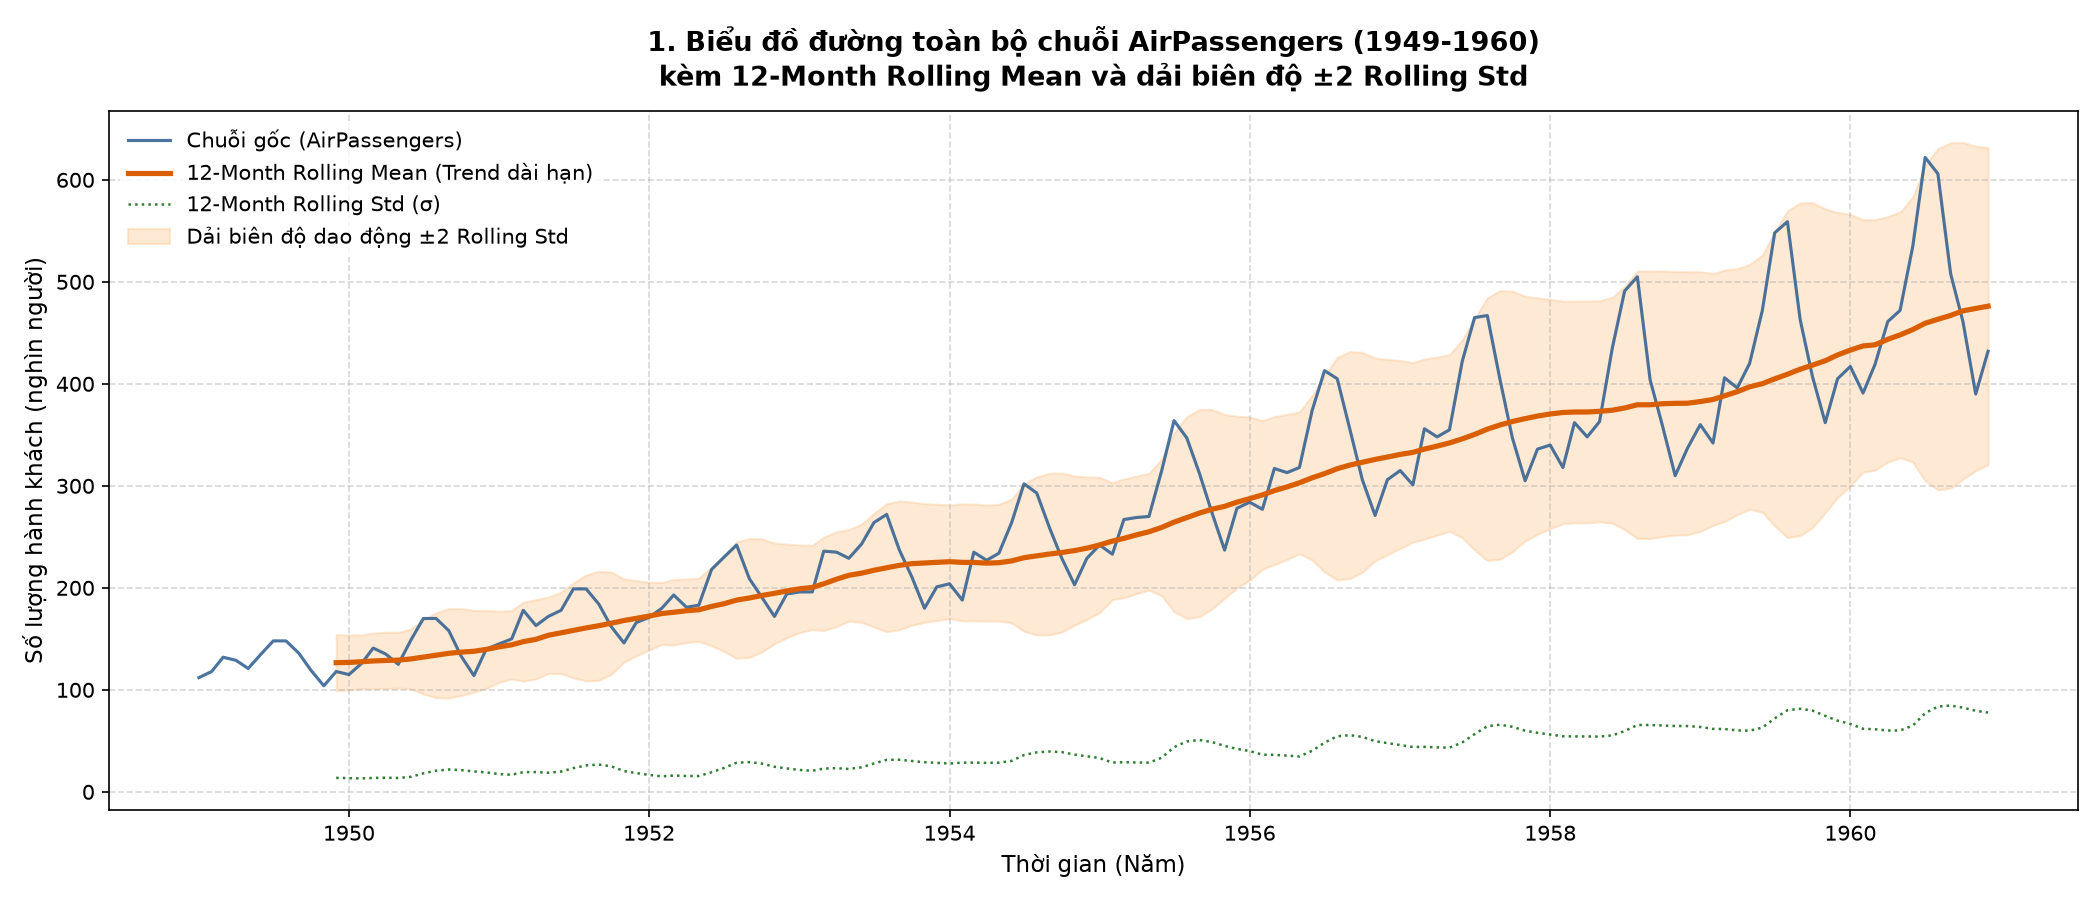
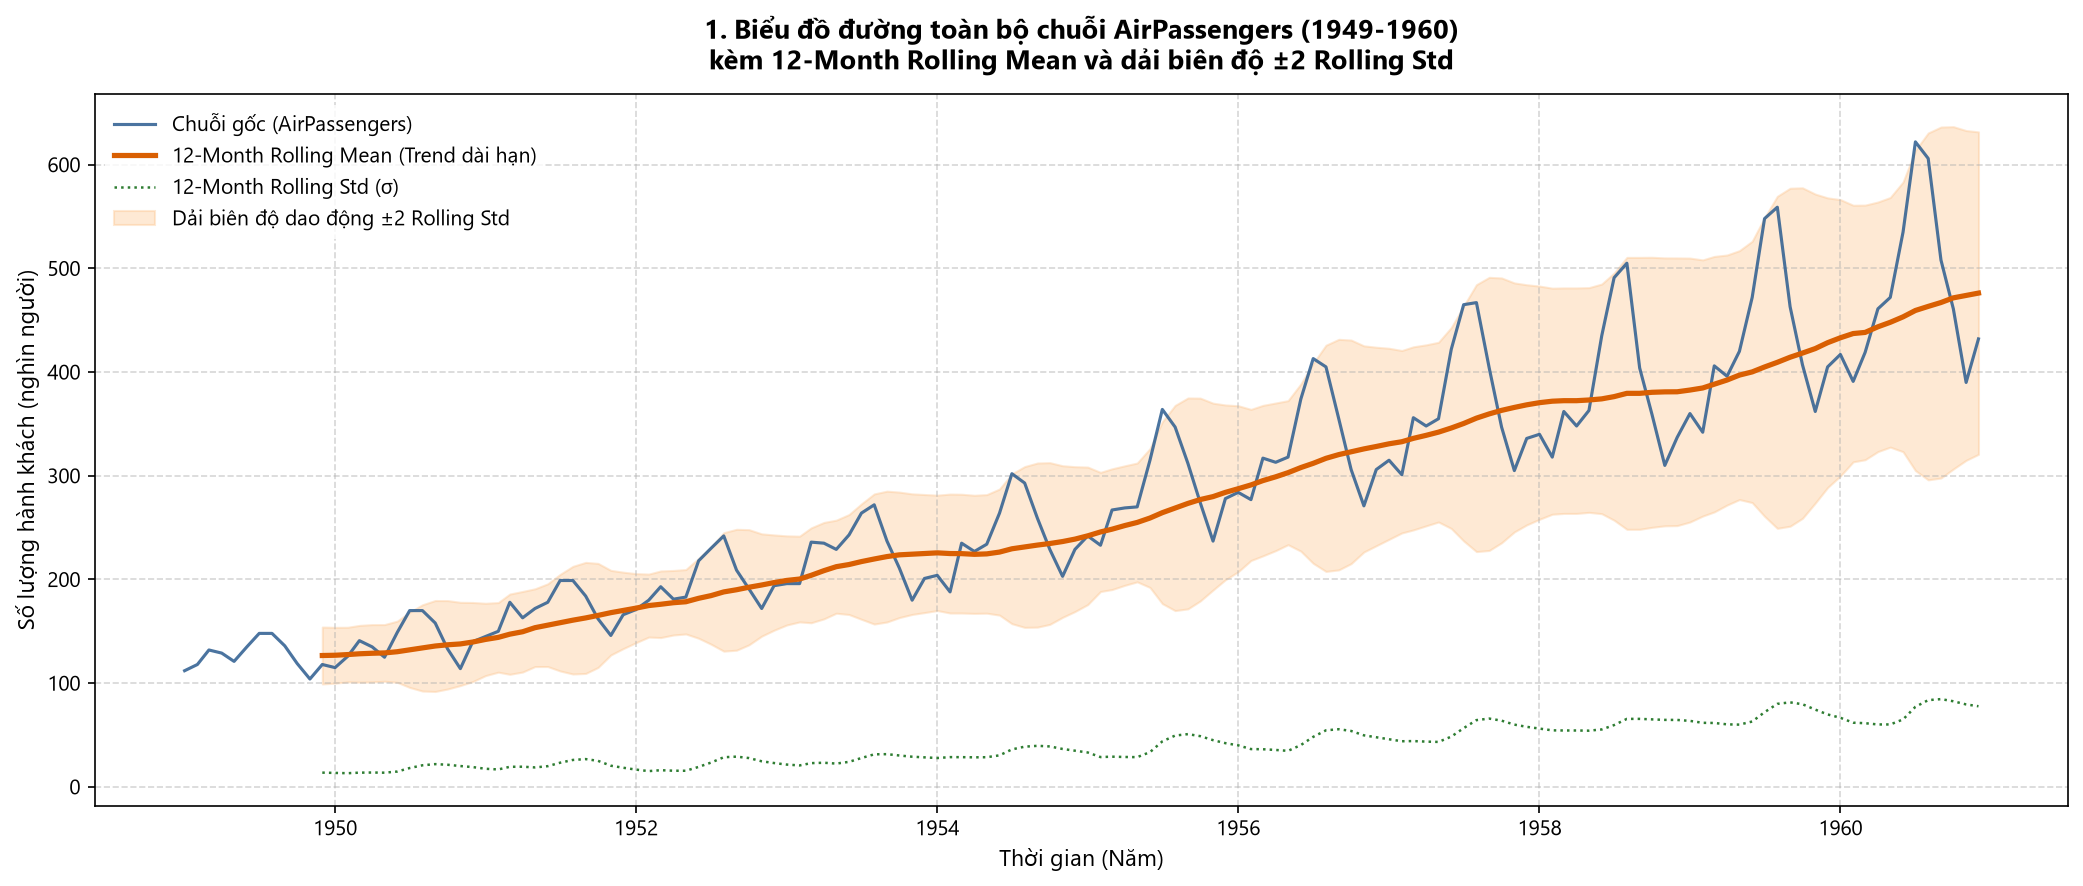
feat(lab2): chuan hoa phong chu Segoe UI va tieng Viet co dau bai tap 5

diff --git a/LAB2/bai_tap_5/bai_tap_5.py b/LAB2/bai_tap_5/bai_tap_5.py
@@ -42,16 +42,23 @@ from typing import Tuple, Dict, Any, List
 
 import numpy as np
 import pandas as pd
+import matplotlib as mpl
 import matplotlib.pyplot as plt
 import seaborn as sns
 
 # Thiết lập bảng mã UTF-8 cho console Windows nhằm ngăn ngừa UnicodeEncodeError
 if sys.platform == "win32":
     try:
+        os.system("chcp 65001 >nul 2>&1")
         sys.stdout.reconfigure(encoding="utf-8")
         sys.stderr.reconfigure(encoding="utf-8")
     except Exception:
         pass
+
+# Cấu hình font chữ hỗ trợ tiếng Việt đầy đủ và đẹp trên Windows / Linux / macOS
+mpl.rcParams["font.family"] = "sans-serif"
+mpl.rcParams["font.sans-serif"] = ["Segoe UI", "Arial", "Tahoma", "DejaVu Sans"]
+mpl.rcParams["axes.unicode_minus"] = False
 
 
 def step1_load_data(data_path: Path) -> pd.Series:
@@ -217,8 +224,10 @@ def step3_visualize(series: pd.Series, analysis_results: Dict[str, Any], show_pl
     plt.tight_layout()
     if figures_dir is not None:
         figures_dir.mkdir(parents=True, exist_ok=True)
-        fig1.savefig(figures_dir / "bai5_1_rolling_statistics.png", dpi=150)
-        print(f" -> Đã lưu biểu đồ 1 (Rolling Statistics): {figures_dir / 'bai5_1_rolling_statistics.png'}")
+        out1 = figures_dir / "bai5_1_rolling_statistics.png"
+        with open(out1, "wb") as f:
+            fig1.savefig(f, format="png", dpi=150, bbox_inches="tight")
+        print(f" -> Đã lưu biểu đồ 1 (Rolling Statistics): {out1}")
     if show_plot:
         plt.show()
     else:
@@ -246,8 +255,10 @@ def step3_visualize(series: pd.Series, analysis_results: Dict[str, Any], show_pl
 
     plt.tight_layout()
     if figures_dir is not None:
-        fig_seasonal.savefig(figures_dir / "bai5_2_seasonal_plot.png", dpi=150)
-        print(f" -> Đã lưu biểu đồ 2 (Seasonal Plot): {figures_dir / 'bai5_2_seasonal_plot.png'}")
+        out2 = figures_dir / "bai5_2_seasonal_plot.png"
+        with open(out2, "wb") as f:
+            fig_seasonal.savefig(f, format="png", dpi=150, bbox_inches="tight")
+        print(f" -> Đã lưu biểu đồ 2 (Seasonal Plot): {out2}")
     if show_plot:
         plt.show()
     else:
@@ -274,8 +285,10 @@ def step3_visualize(series: pd.Series, analysis_results: Dict[str, Any], show_pl
 
     plt.tight_layout()
     if figures_dir is not None:
-        fig2.savefig(figures_dir / "bai5_3_seasonality_heatmap.png", dpi=150)
-        print(f" -> Đã lưu biểu đồ 3 (Seasonality Heatmap): {figures_dir / 'bai5_3_seasonality_heatmap.png'}")
+        out3 = figures_dir / "bai5_3_seasonality_heatmap.png"
+        with open(out3, "wb") as f:
+            fig2.savefig(f, format="png", dpi=150, bbox_inches="tight")
+        print(f" -> Đã lưu biểu đồ 3 (Seasonality Heatmap): {out3}")
     if show_plot:
         plt.show()
     else:
@@ -286,16 +299,16 @@ def step3_visualize(series: pd.Series, analysis_results: Dict[str, Any], show_pl
 
 
 def _month_name(m: int) -> str:
-    """Trả về tên tháng rút gọn tiếng Việt (không sinh phụ thuộc locale)."""
-    names = {1: "Thang 1", 2: "Thang 2", 3: "Thang 3", 4: "Thang 4", 5: "Thang 5", 6: "Thang 6",
-             7: "Thang 7", 8: "Thang 8", 9: "Thang 9", 10: "Thang 10", 11: "Thang 11", 12: "Thang 12"}
-    return names.get(int(m), f"Thang {int(m)}")
+    """Trả về tên tháng tiếng Việt."""
+    names = {1: "Tháng 1", 2: "Tháng 2", 3: "Tháng 3", 4: "Tháng 4", 5: "Tháng 5", 6: "Tháng 6",
+             7: "Tháng 7", 8: "Tháng 8", 9: "Tháng 9", 10: "Tháng 10", 11: "Tháng 11", 12: "Tháng 12"}
+    return names.get(int(m), f"Tháng {int(m)}")
 
 
 def step4_conclude_and_report(analysis_results: Dict[str, Any], output_path: Path) -> str:
     """
     Bước 4: Tổng hợp nhận định chuyên sâu, xuất báo cáo nghiệm thu Bài tập 5
-            và trả lời đầy đủ 3 câu nghiệm thu + câu lý thuyết 9 & 12.
+            và trả lời đầy đủ 5 câu nghiệm thu đề bài + câu lý thuyết 9 & 12.
 
     Cấu trúc báo cáo 5 phần:
         1. Phân tích xu hướng & dải biến thiên (±2σ)
@@ -320,84 +333,84 @@ def step4_conclude_and_report(analysis_results: Dict[str, Any], output_path: Pat
     yoy_line = "; ".join(f"{int(ts.year)}: {val:+.1f}%" for ts, val in yoy.dropna().items())
 
     report_text = f"""=================================================================================
-BAO CAO PHAN TICH KET QUA BAI TAP 5 (TRUC QUAN HOA CHUYEN SAU CHUOI THOI GIAN)
-Thanh vien thuc hien: Bui Tran Ngoc Khai (CV06) - Mon QLCTG (UTH), Nhom 7
-Du lieu: AirPassengers.csv | 144 quan sat thang | 1949-01 -> 1960-12
+BÁO CÁO PHÂN TÍCH KẾT QUẢ BÀI TẬP 5 (TRỰC QUAN HÓA CHUYÊN SÂU CHUỖI THỜI GIAN)
+Thành viên thực hiện: Bùi Trần Ngọc Khải (CV06) - Môn QLCTG (UTH), Nhóm 7
+Dữ liệu: AirPassengers.csv | 144 quan sát tháng | 1949-01 -> 1960-12
 =================================================================================
-1. PHAN TICH XU HUONG VA DAI BIEN THIEN (ROLLING STATISTICS, window=12):
-   - Duong trung binh truot 12 thang (Rolling Mean) lam min hoan toan cac dao dong
-     song ngan, cho thay ro rang xu huong tang truong doc manh qua tung nam.
-   - Tong luong hanh khach hang nam: {int(annual_sum.iloc[0])} (1949) -> {int(annual_sum.iloc[-1])} (1960),
-     tuong duong gap {gfac:.2f} lan (+{gpct:.1f}%). Tang truong YoY: {yoy_line}.
-   - Dai bien do dao dong ±2 Rolling Std mo rong ro ret theo thoi gian:
-     + Do lech chuan noi nam 1949: {std_init:.2f}
-     + Do lech chuan noi nam 1960: {std_end:.2f} (Gap {ratio:.2f} lan so voi 1949).
-     + Bien do mua vu noi nam (max-min): {int(amp.iloc[0])} (1949) -> {int(amp.iloc[-1])} (1960),
-       gap {amp_growth:.2f} lan - tang ty le thuan voi muc do lon cua chuoi.
-   - Ty le diem nam trong dai ±2 Std: {coverage:.1f}% (~95%, phu hop ky vong thong ke).
-   - Ket luan phuong sai: Chuoi vi pham gia dinh phuong sai dong nhat
-     (Heteroskedasticity). Mo hinh dang nhan (Multiplicative) hoac phep bien doi
-     Box-Cox / Log-transform la toi can thiet khi xay dung mo hinh du bao.
+1. PHÂN TÍCH XU HƯỚNG VÀ DẢI BIẾN THIÊN (ROLLING STATISTICS, window=12):
+   - Đường trung bình trượt 12 tháng (Rolling Mean) làm mịn hoàn toàn các dao động
+     mùa vụ nội năm ngắn hạn, thể hiện rõ xu hướng tăng trưởng dốc và liên tục qua từng năm.
+   - Tổng lượng hành khách hàng năm: {int(annual_sum.iloc[0])} (1949) -> {int(annual_sum.iloc[-1])} (1960),
+     tương đương tăng gấp {gfac:.2f} lần (+{gpct:.1f}%). Tăng trưởng YoY: {yoy_line}.
+   - Dải biên độ dao động ±2 Rolling Std mở rộng rõ rệt theo thời gian:
+     + Độ lệch chuẩn nội năm 1949: {std_init:.2f}
+     + Độ lệch chuẩn nội năm 1960: {std_end:.2f} (Gấp {ratio:.2f} lần so với năm 1949).
+     + Biên độ mùa vụ nội năm (Max - Min): {int(amp.iloc[0])} (1949) -> {int(amp.iloc[-1])} (1960),
+       gấp {amp_growth:.2f} lần - biên độ tăng tỷ lệ thuận với độ lớn của chuỗi thời gian.
+   - Tỷ lệ số điểm nằm trọn trong dải ±2 Std: {coverage:.1f}% (~95%, phù hợp quy tắc thực nghiệm thống kê).
+   - Kết luận phương sai: Chuỗi vi phạm giả định phương sai đồng nhất
+     (Heteroskedasticity). Mô hình dạng nhân (Multiplicative) hoặc phép biến đổi
+     Box-Cox / Log-transform là tối cần thiết khi xây dựng mô hình dự báo.
 
-2. QUY LUAT MUA VU THEO THANG (MONTHLY SEASONAL PLOT):
-   - Bieu do Seasonal Plot cho thay cac duong cong qua tung nam co hinh dang
-     (pha dao dong) dong dang gan nhu tuyet doi, chung minh tinh mua vu mang
-     quy luat tu nhien rat cao va on dinh.
-   - Dinh diem hanh khach (Peak): Thang {peak_m} (TB {monthly_avg.loc[peak_m]:.1f} nghin nguoi;
-     ky luc {int(analysis_results['series'].max())} tai {analysis_results['series'].idxmax():%Y-%m}).
-   - Day thap nhat (Trough): Thang {trough_m} (TB {monthly_avg.loc[trough_m]:.1f} nghin nguoi;
-     thap nhat lich su {int(analysis_results['series'].min())} tai {analysis_results['series'].idxmin():%Y-%m}).
-   - Moi nam duong cong mua vu tinh tien deu len phia tren ma khong lam dao lon
-     cau truc song -> xu huong dai han + mua vu 12 thang song song ton tai.
+2. QUY LUẬT MÙA VỤ THEO THÁNG (MONTHLY SEASONAL PLOT):
+   - Biểu đồ Seasonal Plot cho thấy các đường cong qua từng năm có hình dạng
+     (pha dao động) đồng dạng gần như tuyệt đối, chứng minh tính mùa vụ mang
+     quy luật tự nhiên rất cao và ổn định.
+   - Đỉnh điểm hành khách (Peak): Tháng {peak_m} (TB {monthly_avg.loc[peak_m]:.1f} nghìn người;
+     kỷ lục {int(analysis_results['series'].max())} nghìn người tại {analysis_results['series'].idxmax():%Y-%m}).
+   - Đáy thấp nhất (Trough): Tháng {trough_m} (TB {monthly_avg.loc[trough_m]:.1f} nghìn người;
+     thấp nhất lịch sử {int(analysis_results['series'].min())} nghìn người tại {analysis_results['series'].idxmin():%Y-%m}).
+   - Mỗi năm đường cong mùa vụ tịnh tiến đều lên phía trên mà không làm đảo lộn
+     cấu trúc sóng -> Xu hướng dài hạn và mùa vụ chu kỳ 12 tháng cùng song song tồn tại.
 
-3. DANH GIA MAT DO QUA HEATMAP (YEAR x MONTH):
-   - Ban do nhiet the hien ro su chuyen mau tu tong nhat (nam 1949, ~100-150)
-     sang tong dam (nam 1960, vuot nguong 500-622).
-   - "Dai mau nong" tap trung lien tuc vao cot Thang 7 va Thang 8 qua moi nam
-     (TB T7={monthly_avg.loc[7]:.1f}, TB T8={monthly_avg.loc[8]:.1f}).
-   - Cot Thang 11 luon la "o lanh" xuyen suot 12 nam (TB {monthly_avg.loc[11]:.1f}).
-   - Su ket hop truc quan giua Heatmap va Rolling Statistics cung cap buc tranh
-     toan dien ve ca 2 chieu: thoi diem trong nam (seasonality) va xu huong lien nam (trend).
+3. ĐÁNH GIÁ MẬT ĐỘ QUA BẢN ĐỒ NHIỆT (SEASONALITY HEATMAP: NĂM x THÁNG):
+   - Bản đồ nhiệt thể hiện rõ sự chuyển dịch tông màu từ nhạt (giai đoạn 1949: ~100-150 nghìn khách)
+     sang tông đậm (giai đoạn 1960: vượt ngưỡng 500-622 nghìn khách).
+   - "Dải màu nóng" (mật độ cao nhất) tập trung liên tục vào cột Tháng 7 và Tháng 8 qua mọi năm
+     (TB T7 = {monthly_avg.loc[7]:.1f}, TB T8 = {monthly_avg.loc[8]:.1f} nghìn người).
+   - Cột Tháng 11 luôn là "vùng lạnh nhất" xuyên suốt 12 năm quan sát (TB {monthly_avg.loc[11]:.1f} nghìn người).
+   - Sự kết hợp trực quan giữa Heatmap và Rolling Statistics cung cấp góc nhìn
+     toàn diện theo cả 2 chiều: thời điểm trong năm (seasonality) và xu hướng liên năm (trend).
 
-4. TRA LOI CAU HOI NGHIEM THU BAI 5 (5 CAU CHUAN DE BAI):
-   Cau 1 - Line chart toan bo chuoi cho thay gi?
-     -> Chuoi tang truong lien tuc tu 1949 den 1960 (tong nam gap {gfac:.2f} lan),
-        dao dong hinh quat mo rong dan, co 12 dinh song mua vu lap lai deu dan.
-   Cau 2 - Rolling Mean (window=12) va Rolling Std co vai tro gi?
-     -> Rolling Mean lam min chu ky 12 thang, lo ro trend dai han; Rolling Std
-        va dai ±2 Std kiem tra tinh thuan nhat phuong sai. Dai mo rong dan
-        (Std gap {ratio:.2f} lan) chung minh heteroskedasticity.
-   Cau 3 - Seasonal Plot theo thang rut ra dieu gi?
-     -> 12 duong cong dong dang, tinh tien deu len tren; dinh T{peak_m}, day T{trough_m}
-        on dinh qua moi nam -> mua vu chu ky 12 manh va on dinh.
-   Cau 4 - Heatmap Seasonality (Month x Year) phat hien gi?
-     -> Ma tran {len(analysis_results['years'])}x12 lam noi bat "vung nong" T7-T8 va "vung lanh" T11,
-        dong thoi cho thay gradient tang dan theo truc nam - bang chung truc quan
-        cho ca trend va seasonality.
-   Cau 5 - Ket luan: xu huong chung, mua vu noi bat, bat thuong?
-     -> Xu huong: tang manh, khong co diem gay cau truc lon. Mua vu: chu ky 12 thang
-        cuc ky ro, dinh he (T7) - day cuoi thu (T11). Bat thuong: khong co outlier
-        cuc doan nao vuot dai ±2 Std mot cach he thong ({coverage:.1f}% nam trong dai).
+4. TRẢ LỜI CÂU HỎI NGHIỆM THU BÀI 5 (5 CÂU CHUẨN ĐỀ BÀI):
+   Câu 1 - Line chart toàn bộ chuỗi cho thấy gì?
+     -> Chuỗi tăng trưởng liên tục từ 1949 đến 1960 (tổng năm tăng gấp {gfac:.2f} lần),
+        dao động hình cánh quạt mở rộng dần, có 12 đỉnh sóng mùa vụ lặp lại đều đặn mỗi năm.
+   Câu 2 - Rolling Mean (window=12) và Rolling Std có vai trò gì?
+     -> Rolling Mean làm mịn chu kỳ 12 tháng để làm nổi bật Trend dài hạn; Rolling Std
+        và dải ±2 Std kiểm tra tính thuần nhất phương sai. Dải mở rộng dần
+        (Std tăng gấp {ratio:.2f} lần) chứng minh hiện tượng phương sai thay đổi (Heteroskedasticity).
+   Câu 3 - Seasonal Plot theo tháng rút ra điều gì?
+     -> 12 đường cong đồng dạng, tịnh tiến đều đặn lên trên qua từng năm; đỉnh Tháng {peak_m}
+        và đáy Tháng {trough_m} ổn định qua mọi năm -> Mùa vụ chu kỳ 12 tháng rất mạnh và bền vững.
+   Câu 4 - Heatmap Seasonality (Month x Year) phát hiện gì?
+     -> Ma trận {len(analysis_results['years'])}x12 làm nổi bật "vùng nóng" Tháng 7 - Tháng 8 và "vùng lạnh" Tháng 11,
+        đồng thời thể hiện gradient tăng dần theo trục năm – bằng chứng trực quan
+        cho cả Trend và Seasonality.
+   Câu 5 - Kết luận: xu hướng chung, mùa vụ nổi bật, bất thường?
+     -> Xu hướng: Tăng trưởng mạnh mẽ, không có điểm gãy cấu trúc lớn. Mùa vụ: Chu kỳ 12 tháng
+        cực kỳ rõ nét (đỉnh du lịch hè T7 - đáy cuối thu T11). Bất thường: Không xuất hiện ngoại lai
+        cực đoan nào vi phạm dải ±2 Std một cách hệ thống ({coverage:.1f}% nằm trong dải).
 
-5. TRA LOI CAU HOI LY THUYET 9 & 12 + DINH HUONG MO HINH HOA:
-   Cau 9 - Rolling mean duoc dung de kiem tra dieu gi trong du lieu?
-     -> Rolling mean lam muot cac dao dong ngan han de lam noi bat DUONG XU HUONG
-        DAI HAN (Trend) va kiem tra xem ky vong cua chuoi co on dinh theo thoi gian
-        hay khong (kiem tra tinh dung ve trung binh). Voi AirPassengers, Rolling Mean
-        12 thang tang don dieu -> chuoi KHONG DUNG (non-stationary ve mean), can lay
-        sai phan (d>=1) truoc khi mo hinh hoa ARIMA.
-   Cau 12 - Vi sao truc quan hoa du lieu la buoc quan trong trong phan tich
-     chuoi thoi gian?
-     -> (a) Phat hien tu nhien trend / seasonality / gay cau truc / ngoai lai ma bang
-        so kho thay; (b) Lua chon dang mo hinh phu hop (Additive vs Multiplicative -
-        bai nay ro rang la Multiplicative vi bien do tang {amp_growth:.2f} lan);
-        (c) Kiem dinh gia dinh mo hinh (phuong sai dong nhat, phan du trang);
-        (d) Truyen dat insight cho ben nghiep vu nhanh hon moi bang so lieu.
-   Dinh huong mo hinh hoa:
-     -> Chuoi co day du dieu kien de mo hinh hoa du bao (trend ro + seasonality 12
-        on dinh, khong phai white noise). De xuat: SARIMA(p,d,q)(P,D,Q)[12] tren
-        du lieu log/box-cox, Prophet voi seasonality mode='multiplicative',
-        hoac XGBoost voi dac trung tre (lag 1..12, rolling mean/std, month, year).
+5. TRẢ LỜI CÂU HỎI LÝ THUYẾT 9 & 12 + ĐỊNH HƯỚNG MÔ HÌNH HÓA:
+   Câu 9 - Rolling mean được dùng để kiểm tra điều gì trong dữ liệu?
+     -> Rolling mean làm mượt các dao động ngắn hạn để làm nổi bật ĐƯỜNG XU HƯỚNG
+        DÀI HẠN (Trend) và kiểm tra xem kỳ vọng của chuỗi có ổn định theo thời gian
+        hay không (kiểm tra tính dừng về trung bình). Với AirPassengers, Rolling Mean
+        12 tháng tăng đơn điệu -> Chuỗi KHÔNG DỪNG về trung bình (non-stationary mean),
+        cần lấy sai phân (d >= 1) trước khi xây dựng mô hình ARIMA/SARIMA.
+   Câu 12 - Vì sao trực quan hóa dữ liệu là bước quan trọng trong phân tích
+     chuỗi thời gian?
+     -> (a) Phát hiện tự nhiên Trend / Seasonality / gãy cấu trúc / ngoại lai mà bảng
+        số liệu tĩnh khó nhận ra; (b) Lựa chọn dạng mô hình phù hợp (Additive vs Multiplicative -
+        bài này rõ ràng là Multiplicative vì biên độ mùa vụ tăng gấp {amp_growth:.2f} lần);
+        (c) Kiểm định các giả định mô hình (phương sai đồng nhất, phần dư phân phối chuẩn);
+        (d) Truyền đạt insight nhanh chóng và trực quan cho người ra quyết định.
+   Định hướng mô hình hóa:
+     -> Chuỗi hội tụ đầy đủ điều kiện để mô hình hóa dự báo (Trend rõ + Seasonality chu kỳ 12 tháng
+        bền vững, không phải nhiễu trắng). Đề xuất: SARIMA(p,d,q)(P,D,Q)[12] trên
+        dữ liệu Log-transform, Prophet với chế độ seasonality_mode='multiplicative',
+        hoặc XGBoost / LightGBM với bộ đặc trưng trễ (lag 1..12, rolling mean/std, tháng, năm).
 =================================================================================
 """
     # Ghi báo cáo ra file text
